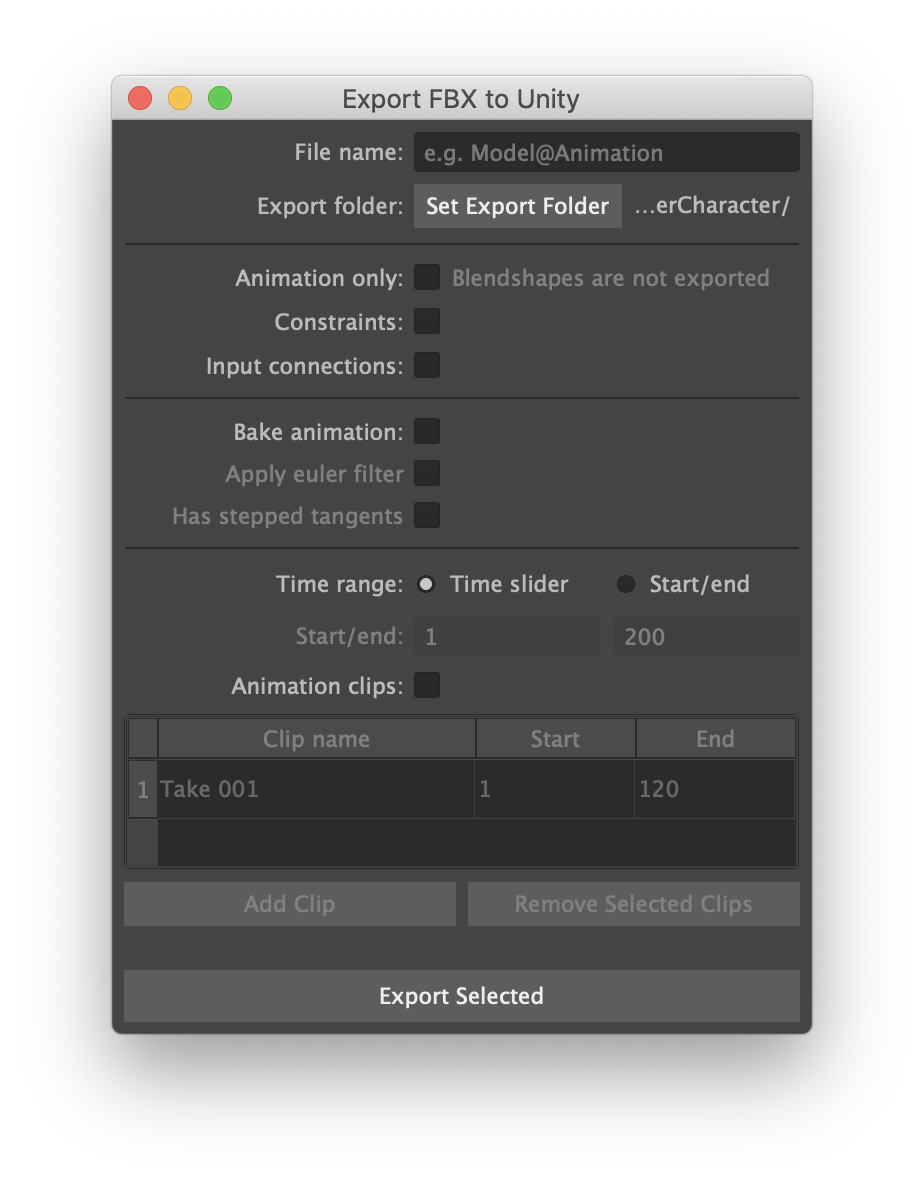
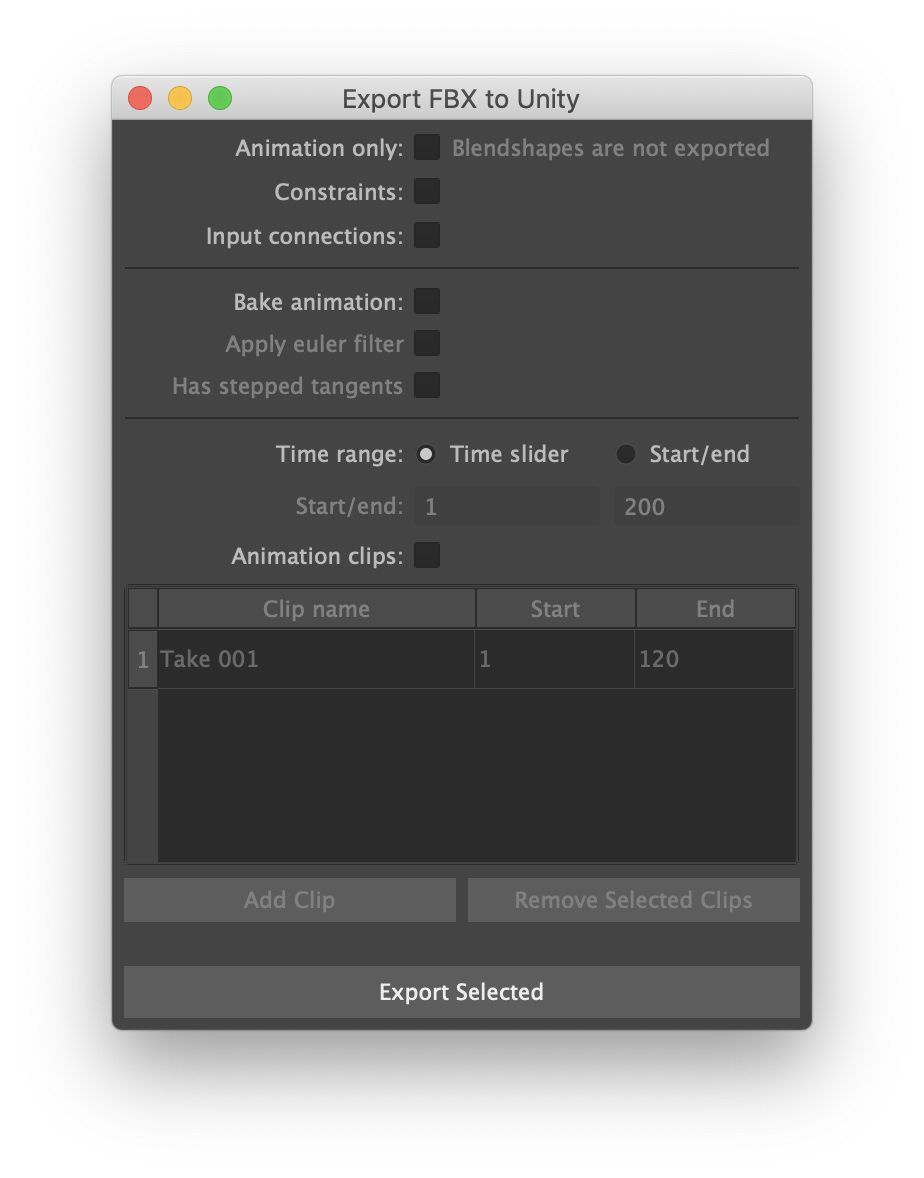
Hidpi scaling

diff --git a/scripts/fileIO/export_fbx_to_unity/exportfbxtounity.py b/scripts/fileIO/export_fbx_to_unity/exportfbxtounity.py
@@ -82,8 +82,7 @@ class ExportFbxToUnity(QMainWindow):
         self.window_name = 'ExportFbxToUnityObj'
         self.setObjectName(self.window_name)
         
-        self.setMinimumWidth(350)
-        # self.setMaximumWidth(1000)
+        self.setMinimumWidth(apply_dpi_scaling(350))
         
         # we need both of these to make the window order behave correctly
         if os.name == 'nt':  # windows platform
@@ -1009,7 +1008,7 @@ class ExportFbxToUnity(QMainWindow):
 
 def apply_dpi_scaling(value):
     if hasattr(cmds, 'mayaDpiSetting'):
-        scale = cmds.mayaDpiSetting(q=True, scaleValue=True)
+        scale = cmds.mayaDpiSetting(q=True, realScaleValue=True)
         return int(scale * value)
     else:
         return int(value)
